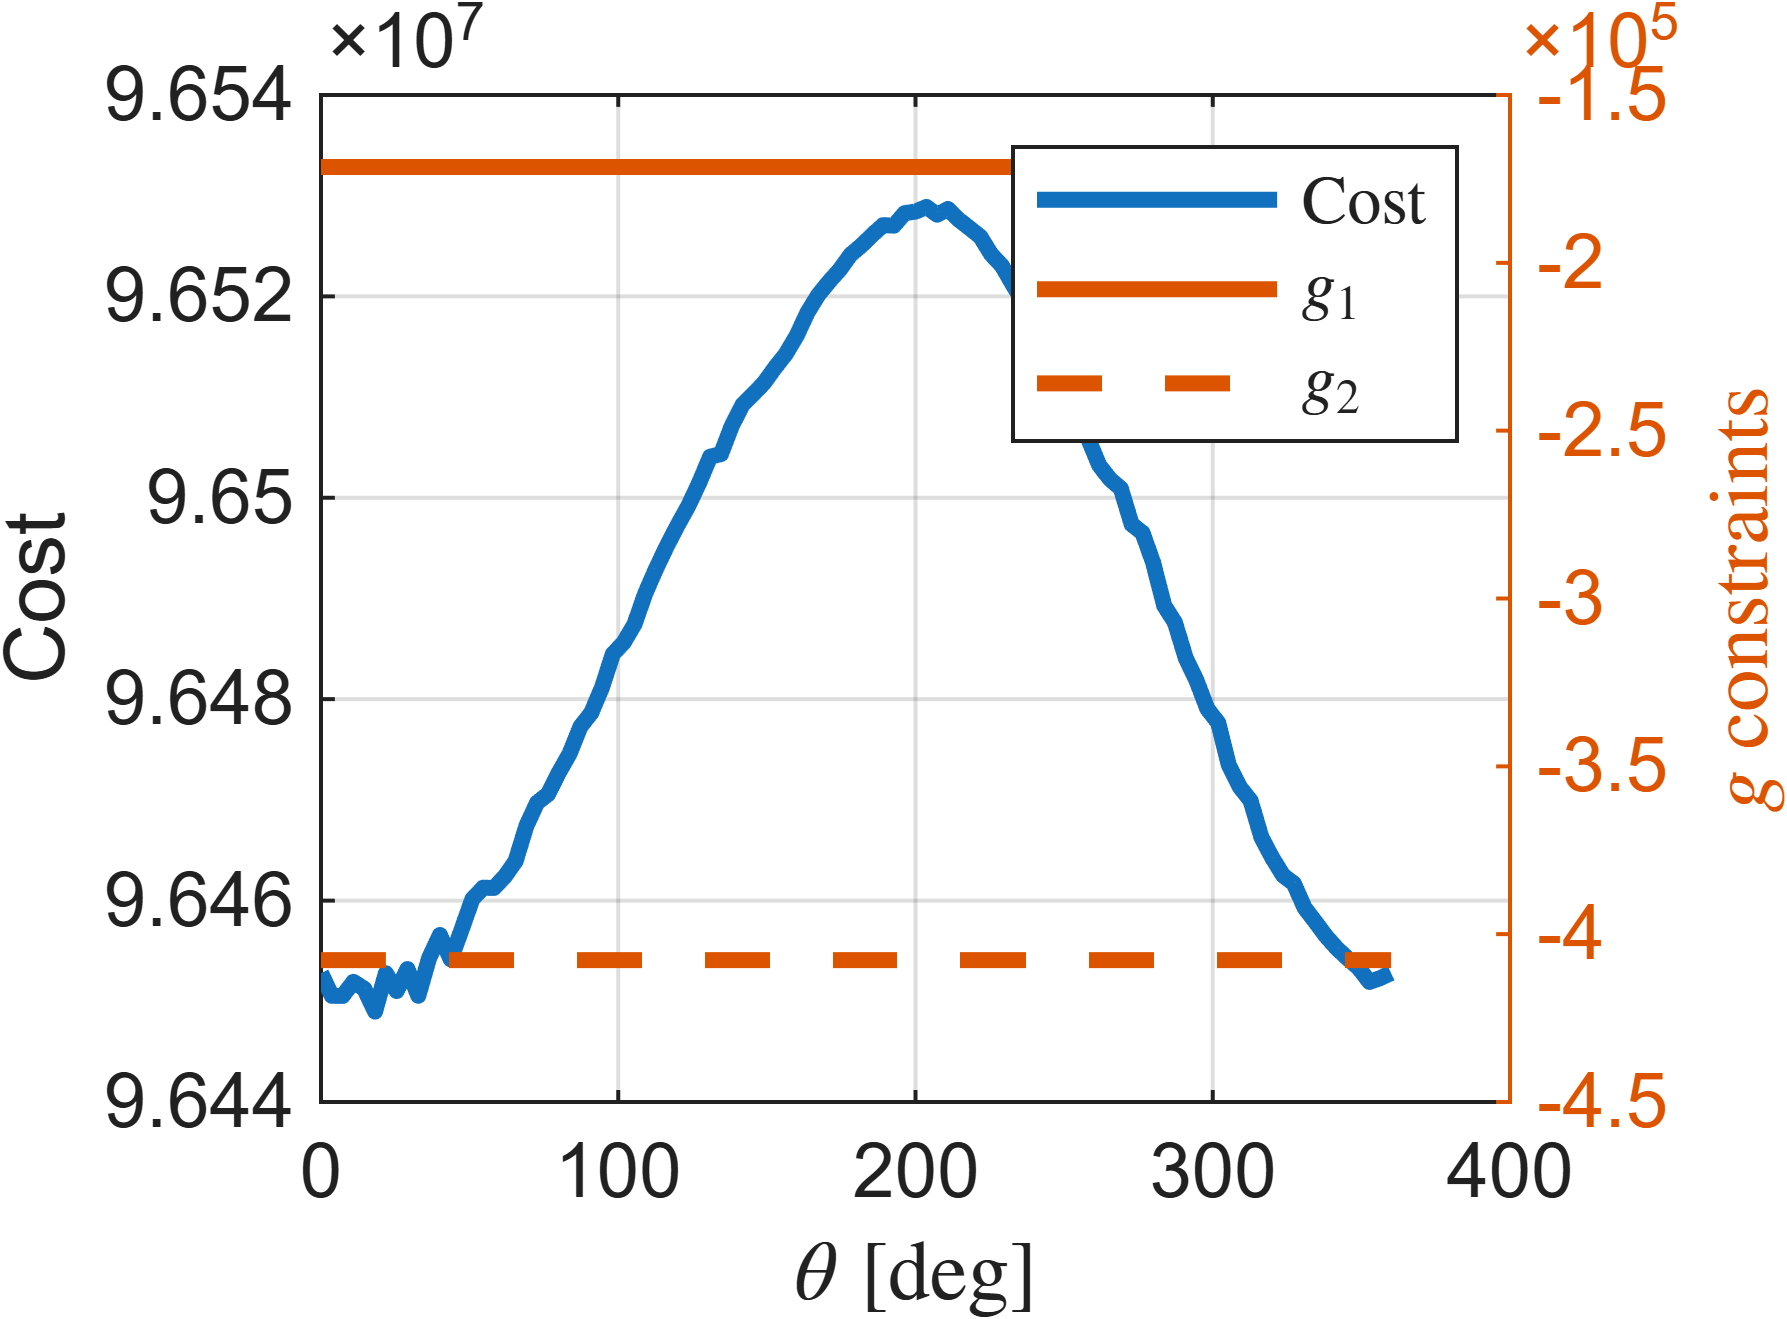
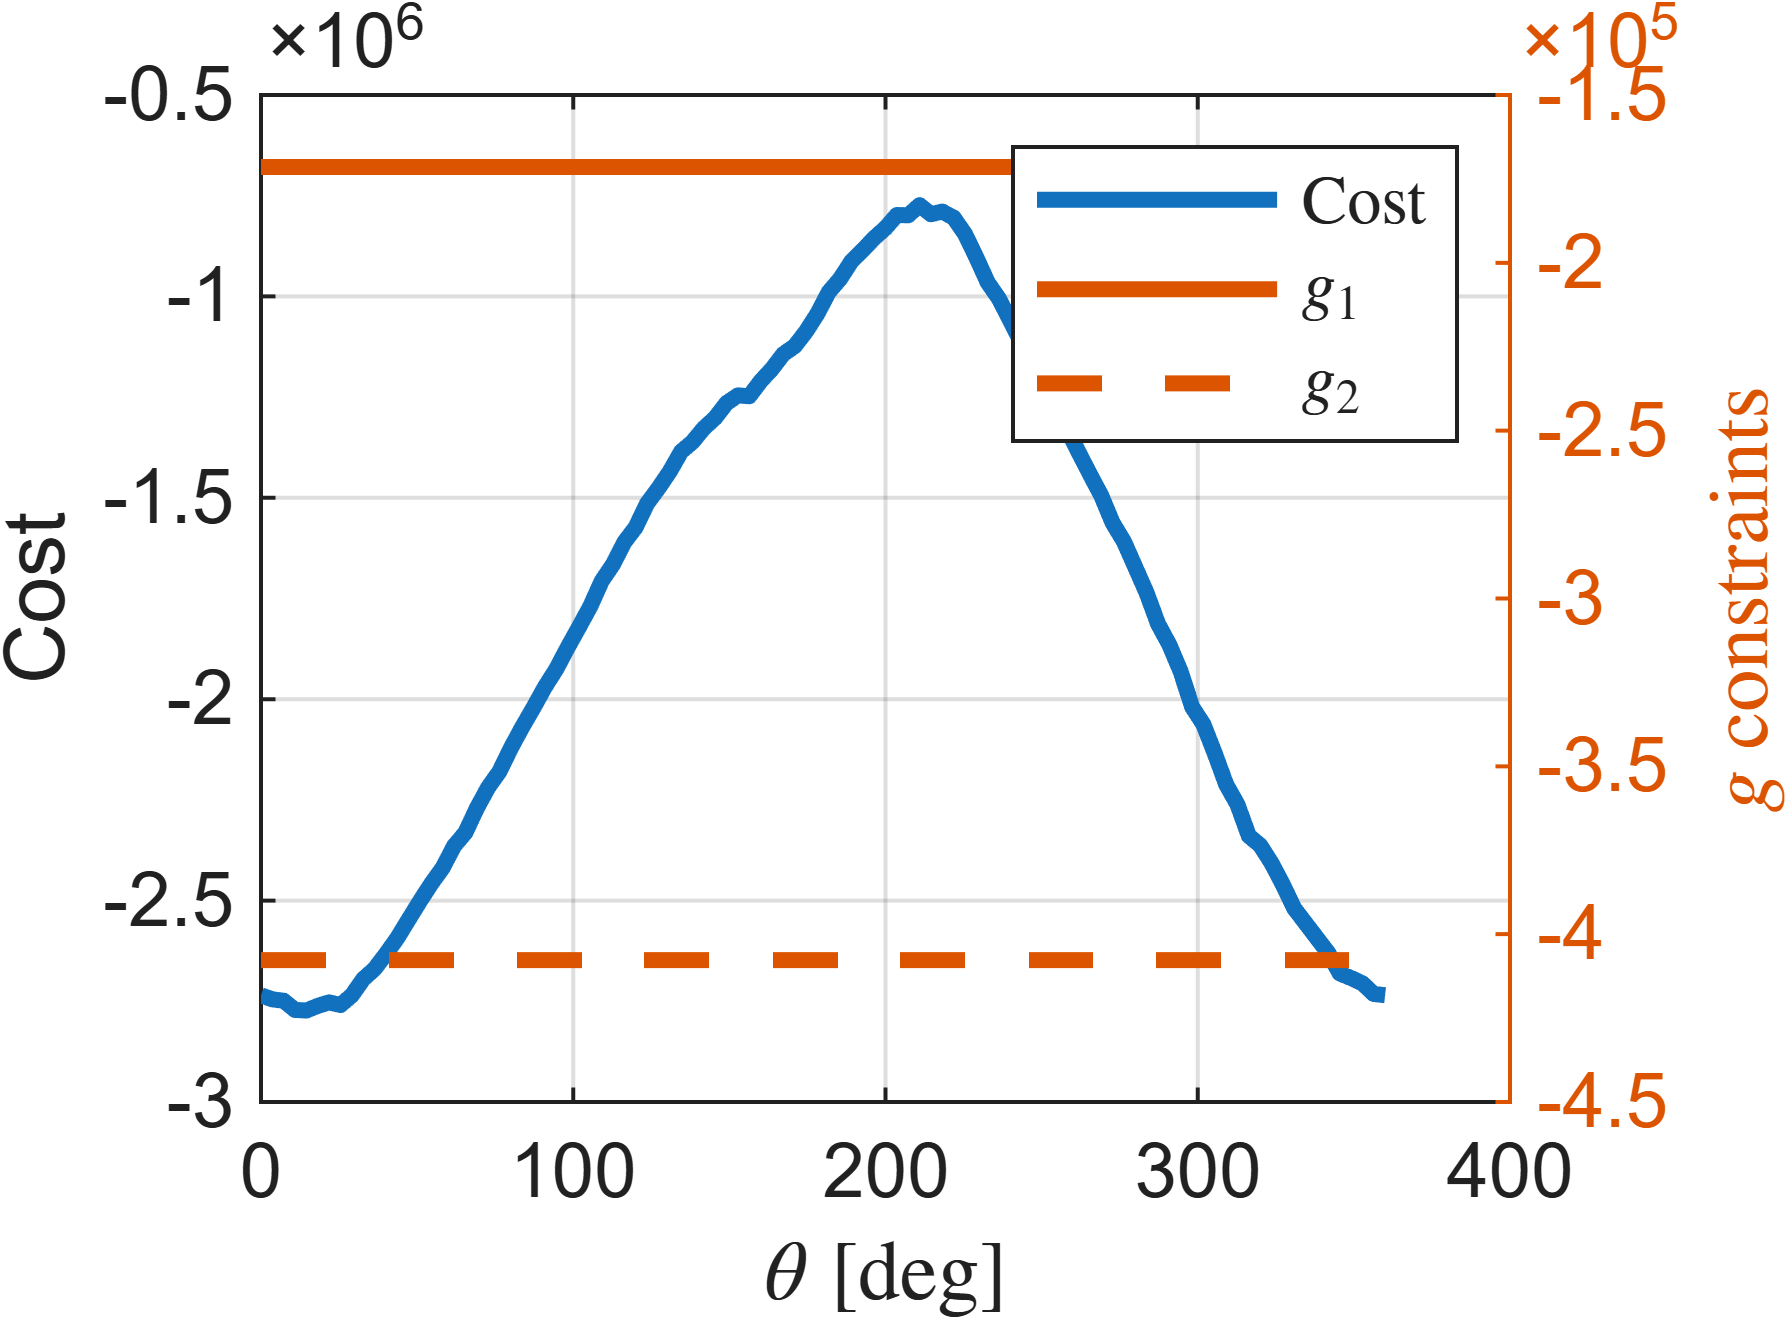
update with results and fixes

diff --git a/lib/plots/plot_constellation_tracks.m b/lib/plots/plot_constellation_tracks.m
@@ -16,17 +16,18 @@ function fig = plot_constellation_tracks(t, y, settings)
     plotm(coastlat, coastlon, 'k', LineWidth = 2);
 
     for i = 1:numel(settings.targets)
-        disp(i)
         % Plot country borders
         T = geotable2table(settings.countries{i}, ["Lat", "Lon"]);
         [lat, lon] = polyjoin(T.Lat, T.Lon);
         plotm(lat, lon, 'r', LineWidth = 2);
     end
 
+    colors = orderedcolors("gem");
+
     for idx = 1:settings.num_sats
         indices = (idx - 1) * 6 + (1:6);
         x_cor = eci2geo(y(:, indices)', t);
-        plotm(rad2deg(x_cor(1, :)), rad2deg(x_cor(2, :)), LineWidth = 2, LineStyle = '--');
+        plotm(rad2deg(x_cor(1, :)), rad2deg(x_cor(2, :)), LineWidth = 2, LineStyle = '--', Color = colors(idx, :));
     end
 
 end

diff --git a/lib/model/constellation_obj_fun.m b/lib/model/constellation_obj_fun.m
@@ -66,7 +66,8 @@ function f = constellation_obj_fun(settings)
             score = score + instant_score;
         end
 
-        cost = -score; % We want to maximize the score, so we minimize the negative of it
+        max_score = (settings.tf - settings.ti + settings.revisit_time) * numel(settings.geo_points);
+        cost = max_score - score; % We want to maximize the score, so we minimize the negative of it
     end
 
     f = @impl;
